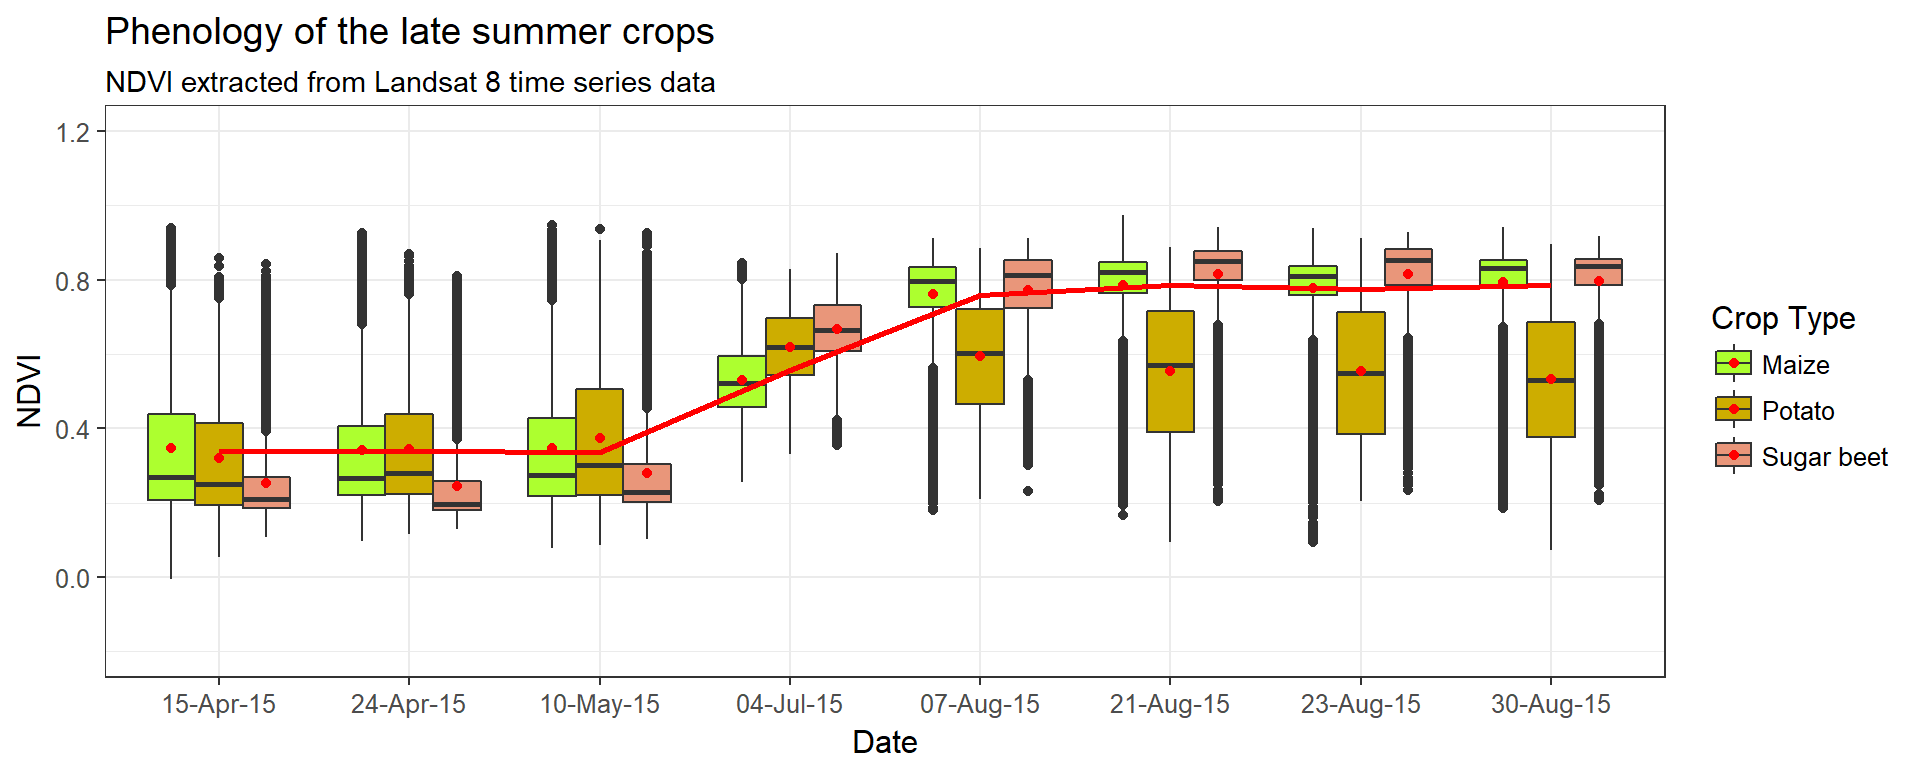
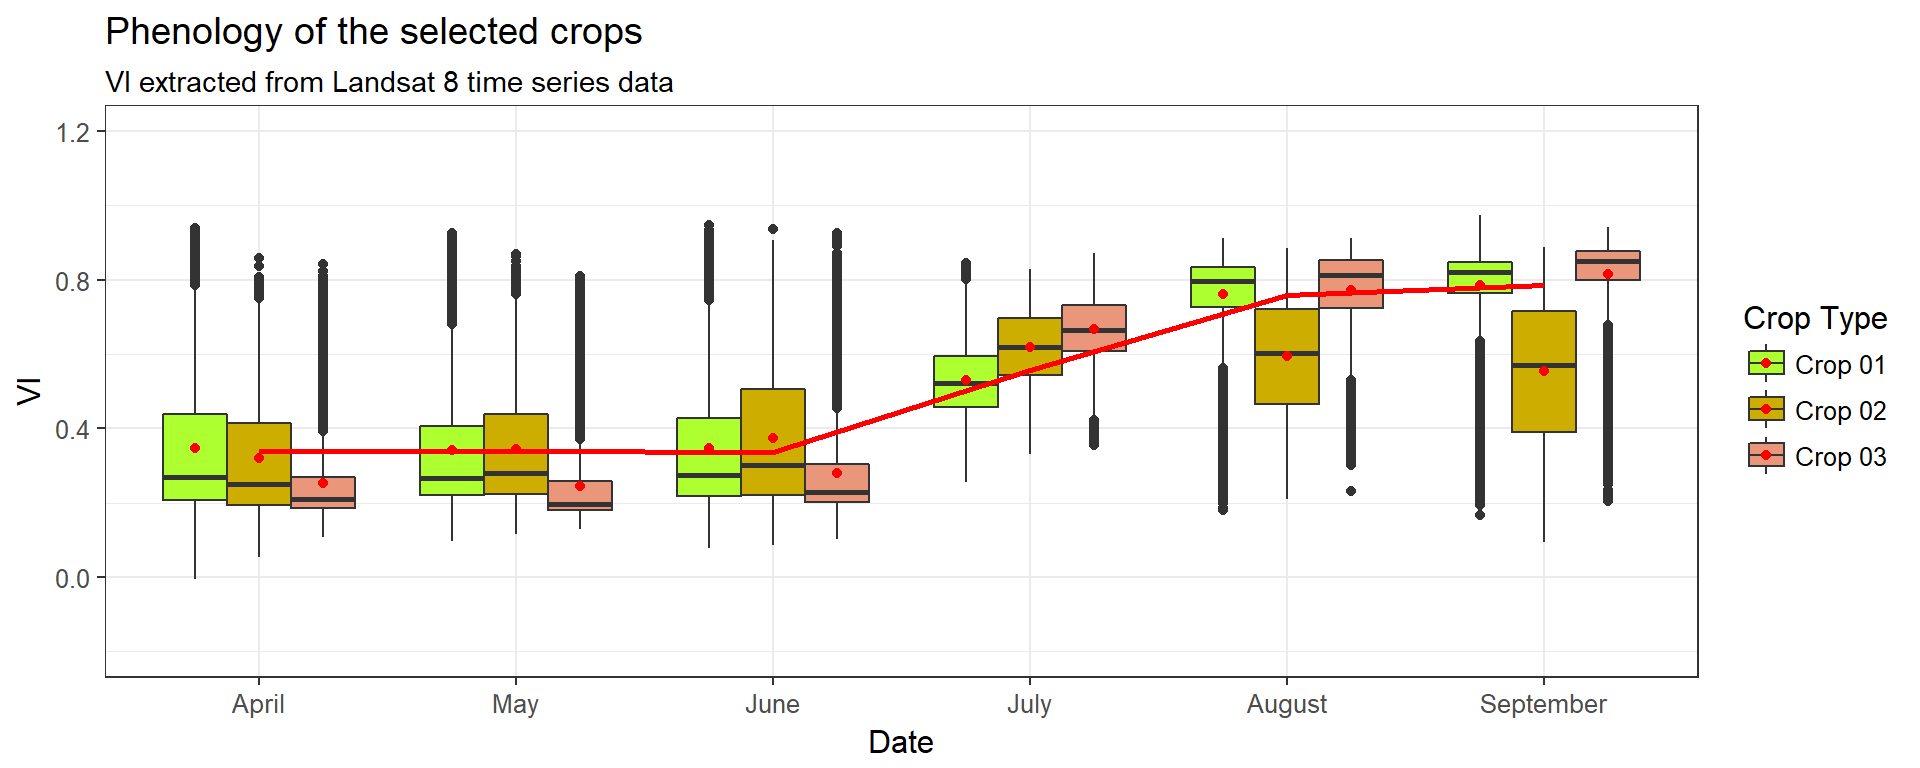
Reshape the blog post.

diff --git a/public/2018/04/13/boxplot-with-trend-line/index.html b/public/2018/04/13/boxplot-with-trend-line/index.html
@@ -27,6 +27,8 @@
 <link rel="stylesheet" href="/css/fonts.css" media="all">
 <link rel="stylesheet" href="/css/main.css" media="all">
 
+<link rel="stylesheet" href="/css/custom.css">
+
 
 
   </head>
@@ -79,7 +81,7 @@
 </div>
 <div id="the-data" class="section level2">
 <h2>The data</h2>
-<p>This data is sample data set from my colleague. The data contains NDVI (Normalize Different Vegetation Index) time series values for three different crops (Maize, Potatoes, Sugar beet) extracted from Landsat 8 data.</p>
+<p>This data is sample data set from my colleague. The data contains VI (Vegetation Index) time series values for three different crops extracted from Landsat 8 data.</p>
 <div id="load-data" class="section level3">
 <h3>Load data</h3>
 <div id="load-libraries" class="section level4">
@@ -92,18 +94,17 @@ library(RColorBrewer)</code></pre>
 </div>
 <div id="read-and-prepare-data" class="section level4">
 <h4>Read and prepare data</h4>
-<pre class="r"><code>read.df &lt;- read.csv(&quot;D:/Blog_data/later_summercrop_ts.csv&quot;, header = TRUE)
+<pre class="r"><code>read.df &lt;- read.csv(&quot;D:/Blog_data/sample_ts.csv&quot;, header = TRUE)
 sample.df &lt;- read.df # Make a copy of the read table
 
 levels(sample.df$date) # Checking the levels in the date column</code></pre>
-<pre><code>## [1] &quot;04-Jul-15&quot; &quot;07-Aug-15&quot; &quot;10-May-15&quot; &quot;15-Apr-15&quot; &quot;21-Aug-15&quot; &quot;23-Aug-15&quot;
-## [7] &quot;24-Apr-15&quot; &quot;30-Aug-15&quot;</code></pre>
+<pre><code>## [1] &quot;April&quot;     &quot;August&quot;    &quot;July&quot;      &quot;June&quot;      &quot;May&quot;       &quot;September&quot;</code></pre>
 <pre class="r"><code>levels(sample.df$crop) # Checking the levels in the crop column</code></pre>
-<pre><code>## [1] &quot;maize&quot;      &quot;potato&quot;     &quot;sugar beet&quot;</code></pre>
+<pre><code>## [1] &quot;Crop 01&quot; &quot;Crop 02&quot; &quot;Crop 03&quot;</code></pre>
 <pre class="r"><code># Reorder levels
-sample.df$date &lt;- factor(sample.df$date, levels = c(&quot;15-Apr-15&quot;, &quot;24-Apr-15&quot;, &quot;10-May-15&quot;, &quot;04-Jul-15&quot;,&quot;07-Aug-15&quot;, &quot;21-Aug-15&quot;, &quot;23-Aug-15&quot;, &quot;30-Aug-15&quot;))
+sample.df$date &lt;- factor(sample.df$date, levels = c(&quot;April&quot;, &quot;May&quot;, &quot;June&quot;, &quot;July&quot;,&quot;August&quot;, &quot;September&quot;))
 
-sample.df$crop &lt;- factor(sample.df$crop, levels = c(&quot;maize&quot;, &quot;potato&quot;, &quot;sugar beet&quot;))</code></pre>
+sample.df$crop &lt;- factor(sample.df$crop, levels = c(&quot;Crop 01&quot;, &quot;Crop 02&quot;, &quot;Crop 03&quot;))</code></pre>
 </div>
 </div>
 <div id="plot-with-ggplot-library" class="section level3">
@@ -119,19 +120,19 @@ ggplot(data=sample.df, aes(x=date, y=NDVI, fill=crop)) +
   stat_summary(fun.y=mean, colour=&quot;red&quot;, aes(group=1),
                geom=&quot;line&quot;, lwd=1, lty=1) +
   theme_bw(base_size = 12) +
-  scale_fill_manual(values = my_colors, name = &quot;Crop Type&quot;, labels = c(&quot;Maize&quot;,&quot;Potato&quot;,&quot;Sugar beet&quot;)) +
-  labs(x=&quot;Date&quot;, y=&quot;NDVI&quot;, 
-       title=&quot;Phenology of the late summer crops&quot;, 
-       subtitle=&quot;NDVI extracted from Landsat 8 time series data&quot;)</code></pre>
+  scale_fill_manual(values = my_colors, name = &quot;Crop Type&quot;, labels = c(&quot;Crop 01&quot;, &quot;Crop 02&quot;, &quot;Crop 03&quot;)) +
+  labs(x=&quot;Date&quot;, y=&quot;VI&quot;, 
+       title=&quot;Phenology of the selected crops&quot;, 
+       subtitle=&quot;VI extracted from Landsat 8 time series data&quot;)</code></pre>
 <p><img src="/post/2018-04-13-boxplot-with-trend-line_files/figure-html/unnamed-chunk-3-1.png" width="960" /></p>
 </div>
 <div id="plot-with-base-library" class="section level3">
 <h3>Plot with <em>base</em> library</h3>
 <pre class="r"><code># Make the boxplot
 boxplot(sample.df$NDVI ~ sample.df$crop+sample.df$date , ylim=c(-0.2,1.2), xaxt=&quot;n&quot; , xlab=&quot;Date&quot; , col=my_colors , pch=20 , cex=0.3 , 
-        ylab=&quot;NDVI&quot;, xlab=&quot;Date&quot;, main=&quot;Phenology of the late summer crops \n NDVI extracted from Landsat 8 time series data&quot; )
-abline(v= seq(0, 3*8, 3) + 0.5 , col=&quot;grey&quot;)
-axis(1, labels=levels(sample.df$date) , at=seq(2,3*8,3) )
+        ylab=&quot;VI&quot;, xlab=&quot;Date&quot;, main=&quot;Phenology of the selected crops \n VI extracted from Landsat 8 time series data&quot; )
+abline(v= seq(0, 3*6, 3) + 0.5 , col=&quot;grey&quot;)
+axis(1, labels=levels(sample.df$date) , at=seq(2,3*6,3) )
 
 
 # Add general trend
@@ -140,7 +141,7 @@ lines(a[,3], type=&quot;l&quot; , col=&quot;red&quot; , lwd=2)
 
 
 #Add legend for crops
-legend(&quot;top&quot;, fill = my_colors, legend = c(&quot;Maize&quot;,&quot;Potato&quot;,&quot;Sugar beet&quot;), horiz = T)</code></pre>
+legend(&quot;top&quot;, fill = my_colors, legend = c(&quot;Crop 01&quot;, &quot;Crop 02&quot;, &quot;Crop 03&quot;), horiz = T)</code></pre>
 <p><img src="/post/2018-04-13-boxplot-with-trend-line_files/figure-html/unnamed-chunk-4-1.png" width="960" /></p>
 </div>
 </div>

diff --git a/content/post/2018-04-13-boxplot-with-trend-line.html b/content/post/2018-04-13-boxplot-with-trend-line.html
@@ -24,7 +24,7 @@ tags:
 </div>
 <div id="the-data" class="section level2">
 <h2>The data</h2>
-<p>This data is sample data set from my colleague. The data contains NDVI (Normalize Different Vegetation Index) time series values for three different crops (Maize, Potatoes, Sugar beet) extracted from Landsat 8 data.</p>
+<p>This data is sample data set from my colleague. The data contains VI (Vegetation Index) time series values for three different crops extracted from Landsat 8 data.</p>
 <div id="load-data" class="section level3">
 <h3>Load data</h3>
 <div id="load-libraries" class="section level4">
@@ -37,18 +37,17 @@ library(RColorBrewer)</code></pre>
 </div>
 <div id="read-and-prepare-data" class="section level4">
 <h4>Read and prepare data</h4>
-<pre class="r"><code>read.df &lt;- read.csv(&quot;D:/Blog_data/later_summercrop_ts.csv&quot;, header = TRUE)
+<pre class="r"><code>read.df &lt;- read.csv(&quot;D:/Blog_data/sample_ts.csv&quot;, header = TRUE)
 sample.df &lt;- read.df # Make a copy of the read table
 
 levels(sample.df$date) # Checking the levels in the date column</code></pre>
-<pre><code>## [1] &quot;04-Jul-15&quot; &quot;07-Aug-15&quot; &quot;10-May-15&quot; &quot;15-Apr-15&quot; &quot;21-Aug-15&quot; &quot;23-Aug-15&quot;
-## [7] &quot;24-Apr-15&quot; &quot;30-Aug-15&quot;</code></pre>
+<pre><code>## [1] &quot;April&quot;     &quot;August&quot;    &quot;July&quot;      &quot;June&quot;      &quot;May&quot;       &quot;September&quot;</code></pre>
 <pre class="r"><code>levels(sample.df$crop) # Checking the levels in the crop column</code></pre>
-<pre><code>## [1] &quot;maize&quot;      &quot;potato&quot;     &quot;sugar beet&quot;</code></pre>
+<pre><code>## [1] &quot;Crop 01&quot; &quot;Crop 02&quot; &quot;Crop 03&quot;</code></pre>
 <pre class="r"><code># Reorder levels
-sample.df$date &lt;- factor(sample.df$date, levels = c(&quot;15-Apr-15&quot;, &quot;24-Apr-15&quot;, &quot;10-May-15&quot;, &quot;04-Jul-15&quot;,&quot;07-Aug-15&quot;, &quot;21-Aug-15&quot;, &quot;23-Aug-15&quot;, &quot;30-Aug-15&quot;))
+sample.df$date &lt;- factor(sample.df$date, levels = c(&quot;April&quot;, &quot;May&quot;, &quot;June&quot;, &quot;July&quot;,&quot;August&quot;, &quot;September&quot;))
 
-sample.df$crop &lt;- factor(sample.df$crop, levels = c(&quot;maize&quot;, &quot;potato&quot;, &quot;sugar beet&quot;))</code></pre>
+sample.df$crop &lt;- factor(sample.df$crop, levels = c(&quot;Crop 01&quot;, &quot;Crop 02&quot;, &quot;Crop 03&quot;))</code></pre>
 </div>
 </div>
 <div id="plot-with-ggplot-library" class="section level3">
@@ -64,19 +63,19 @@ ggplot(data=sample.df, aes(x=date, y=NDVI, fill=crop)) +
   stat_summary(fun.y=mean, colour=&quot;red&quot;, aes(group=1),
                geom=&quot;line&quot;, lwd=1, lty=1) +
   theme_bw(base_size = 12) +
-  scale_fill_manual(values = my_colors, name = &quot;Crop Type&quot;, labels = c(&quot;Maize&quot;,&quot;Potato&quot;,&quot;Sugar beet&quot;)) +
-  labs(x=&quot;Date&quot;, y=&quot;NDVI&quot;, 
-       title=&quot;Phenology of the late summer crops&quot;, 
-       subtitle=&quot;NDVI extracted from Landsat 8 time series data&quot;)</code></pre>
+  scale_fill_manual(values = my_colors, name = &quot;Crop Type&quot;, labels = c(&quot;Crop 01&quot;, &quot;Crop 02&quot;, &quot;Crop 03&quot;)) +
+  labs(x=&quot;Date&quot;, y=&quot;VI&quot;, 
+       title=&quot;Phenology of the selected crops&quot;, 
+       subtitle=&quot;VI extracted from Landsat 8 time series data&quot;)</code></pre>
 <p><img src="/post/2018-04-13-boxplot-with-trend-line_files/figure-html/unnamed-chunk-3-1.png" width="960" /></p>
 </div>
 <div id="plot-with-base-library" class="section level3">
 <h3>Plot with <em>base</em> library</h3>
 <pre class="r"><code># Make the boxplot
 boxplot(sample.df$NDVI ~ sample.df$crop+sample.df$date , ylim=c(-0.2,1.2), xaxt=&quot;n&quot; , xlab=&quot;Date&quot; , col=my_colors , pch=20 , cex=0.3 , 
-        ylab=&quot;NDVI&quot;, xlab=&quot;Date&quot;, main=&quot;Phenology of the late summer crops \n NDVI extracted from Landsat 8 time series data&quot; )
-abline(v= seq(0, 3*8, 3) + 0.5 , col=&quot;grey&quot;)
-axis(1, labels=levels(sample.df$date) , at=seq(2,3*8,3) )
+        ylab=&quot;VI&quot;, xlab=&quot;Date&quot;, main=&quot;Phenology of the selected crops \n VI extracted from Landsat 8 time series data&quot; )
+abline(v= seq(0, 3*6, 3) + 0.5 , col=&quot;grey&quot;)
+axis(1, labels=levels(sample.df$date) , at=seq(2,3*6,3) )
 
 
 # Add general trend
@@ -85,7 +84,7 @@ lines(a[,3], type=&quot;l&quot; , col=&quot;red&quot; , lwd=2)
 
 
 #Add legend for crops
-legend(&quot;top&quot;, fill = my_colors, legend = c(&quot;Maize&quot;,&quot;Potato&quot;,&quot;Sugar beet&quot;), horiz = T)</code></pre>
+legend(&quot;top&quot;, fill = my_colors, legend = c(&quot;Crop 01&quot;, &quot;Crop 02&quot;, &quot;Crop 03&quot;), horiz = T)</code></pre>
 <p><img src="/post/2018-04-13-boxplot-with-trend-line_files/figure-html/unnamed-chunk-4-1.png" width="960" /></p>
 </div>
 </div>

diff --git a/public/about/index.html b/public/about/index.html
@@ -22,6 +22,8 @@
 <link rel="stylesheet" href="/css/fonts.css" media="all">
 <link rel="stylesheet" href="/css/main.css" media="all">
 
+<link rel="stylesheet" href="/css/custom.css">
+
 
 
   </head>

diff --git a/public/categories/ggplot/index.html b/public/categories/ggplot/index.html
@@ -24,6 +24,8 @@
 <link rel="stylesheet" href="/css/fonts.css" media="all">
 <link rel="stylesheet" href="/css/main.css" media="all">
 
+<link rel="stylesheet" href="/css/custom.css">
+
 
 
   </head>

diff --git a/public/categories/index.html b/public/categories/index.html
@@ -24,6 +24,8 @@
 <link rel="stylesheet" href="/css/fonts.css" media="all">
 <link rel="stylesheet" href="/css/main.css" media="all">
 
+<link rel="stylesheet" href="/css/custom.css">
+
 
 
   </head>

diff --git a/public/categories/r/index.html b/public/categories/r/index.html
@@ -24,6 +24,8 @@
 <link rel="stylesheet" href="/css/fonts.css" media="all">
 <link rel="stylesheet" href="/css/main.css" media="all">
 
+<link rel="stylesheet" href="/css/custom.css">
+
 
 
   </head>

diff --git a/public/index.html b/public/index.html
@@ -25,6 +25,8 @@
 <link rel="stylesheet" href="/css/fonts.css" media="all">
 <link rel="stylesheet" href="/css/main.css" media="all">
 
+<link rel="stylesheet" href="/css/custom.css">
+
 
 
   </head>

diff --git a/public/post/index.html b/public/post/index.html
@@ -24,6 +24,8 @@
 <link rel="stylesheet" href="/css/fonts.css" media="all">
 <link rel="stylesheet" href="/css/main.css" media="all">
 
+<link rel="stylesheet" href="/css/custom.css">
+
 
 
   </head>

diff --git a/public/tags/ggplot/index.html b/public/tags/ggplot/index.html
@@ -24,6 +24,8 @@
 <link rel="stylesheet" href="/css/fonts.css" media="all">
 <link rel="stylesheet" href="/css/main.css" media="all">
 
+<link rel="stylesheet" href="/css/custom.css">
+
 
 
   </head>

diff --git a/public/tags/index.html b/public/tags/index.html
@@ -24,6 +24,8 @@
 <link rel="stylesheet" href="/css/fonts.css" media="all">
 <link rel="stylesheet" href="/css/main.css" media="all">
 
+<link rel="stylesheet" href="/css/custom.css">
+
 
 
   </head>

diff --git a/public/tags/plot/index.html b/public/tags/plot/index.html
@@ -24,6 +24,8 @@
 <link rel="stylesheet" href="/css/fonts.css" media="all">
 <link rel="stylesheet" href="/css/main.css" media="all">
 
+<link rel="stylesheet" href="/css/custom.css">
+
 
 
   </head>

diff --git a/public/tags/r/index.html b/public/tags/r/index.html
@@ -24,6 +24,8 @@
 <link rel="stylesheet" href="/css/fonts.css" media="all">
 <link rel="stylesheet" href="/css/main.css" media="all">
 
+<link rel="stylesheet" href="/css/custom.css">
+
 
 
   </head>
